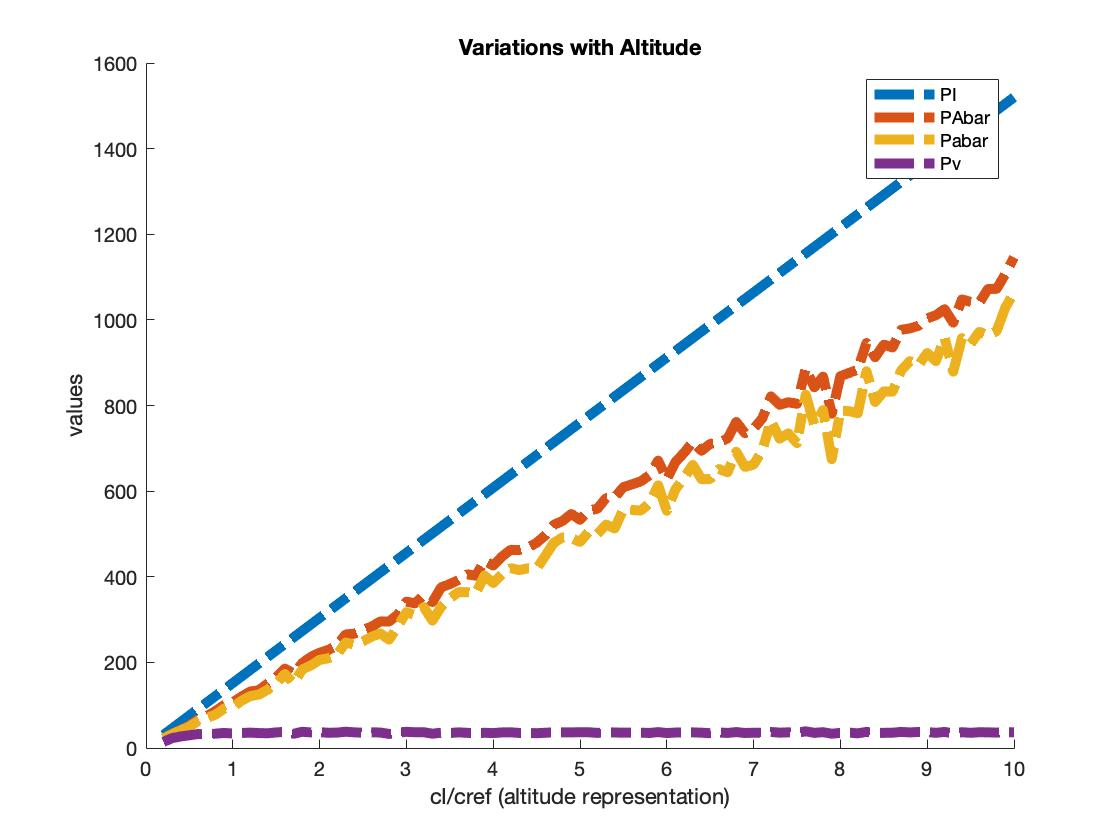
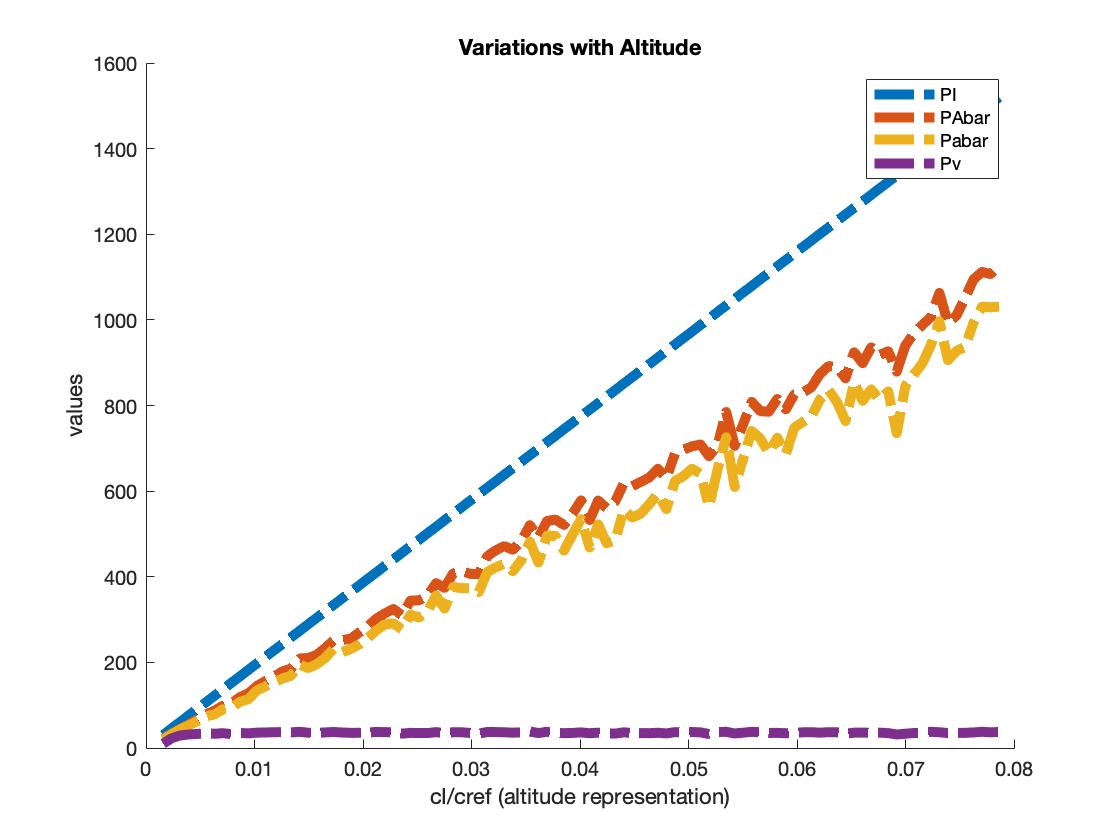
Task5 fixed

diff --git a/lung.m b/lung.m
@@ -33,10 +33,10 @@ end
 
 figure(5) 
 hold on; 
-plot(crefcoeffvals, PIhold,'-.','LineWidth',5) %plot variables vs cI
-plot(crefcoeffvals, PAbarhold,'-.','LineWidth',5)
-plot(crefcoeffvals, Pabarhold,'-.','LineWidth',5)
-plot(crefcoeffvals, Pvhold,'-.','LineWidth',5)
+plot(crefcoeffvals*0.2/(22.4*(310/273)), PIhold,'-.','LineWidth',5) %plot variables vs cI
+plot(crefcoeffvals*0.2/(22.4*(310/273)), PAbarhold,'-.','LineWidth',5)
+plot(crefcoeffvals*0.2/(22.4*(310/273)), Pabarhold,'-.','LineWidth',5)
+plot(crefcoeffvals*0.2/(22.4*(310/273)), Pvhold,'-.','LineWidth',5)
 xlabel('cI/cref (altitude representation)')
 ylabel('values')
 title('Variations with Altitude')
